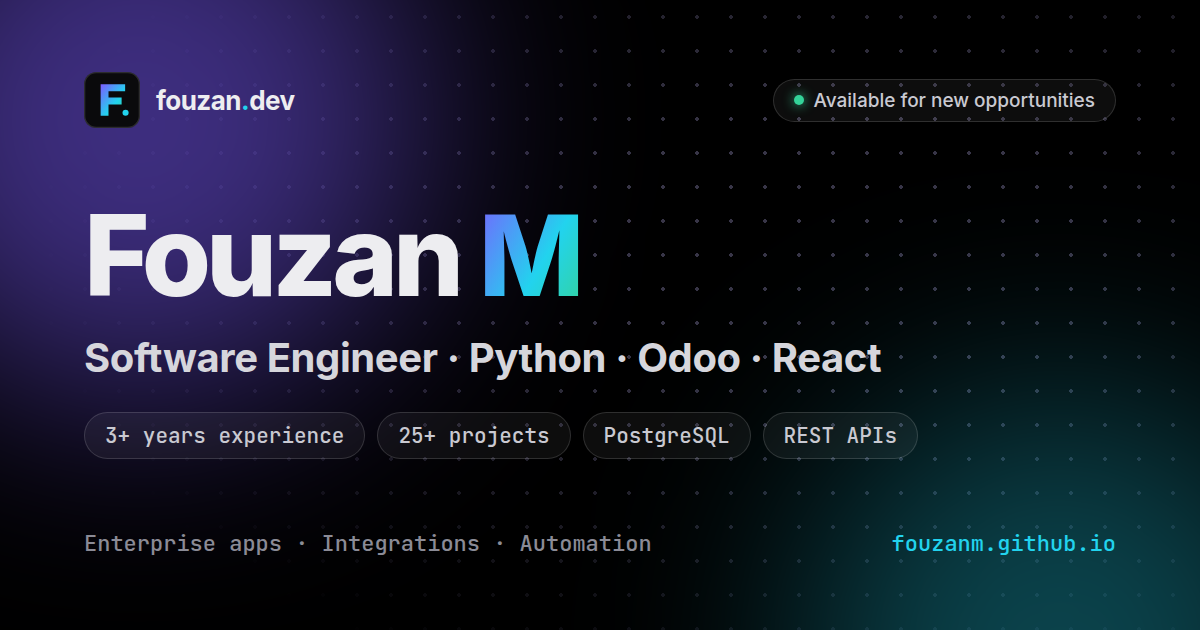
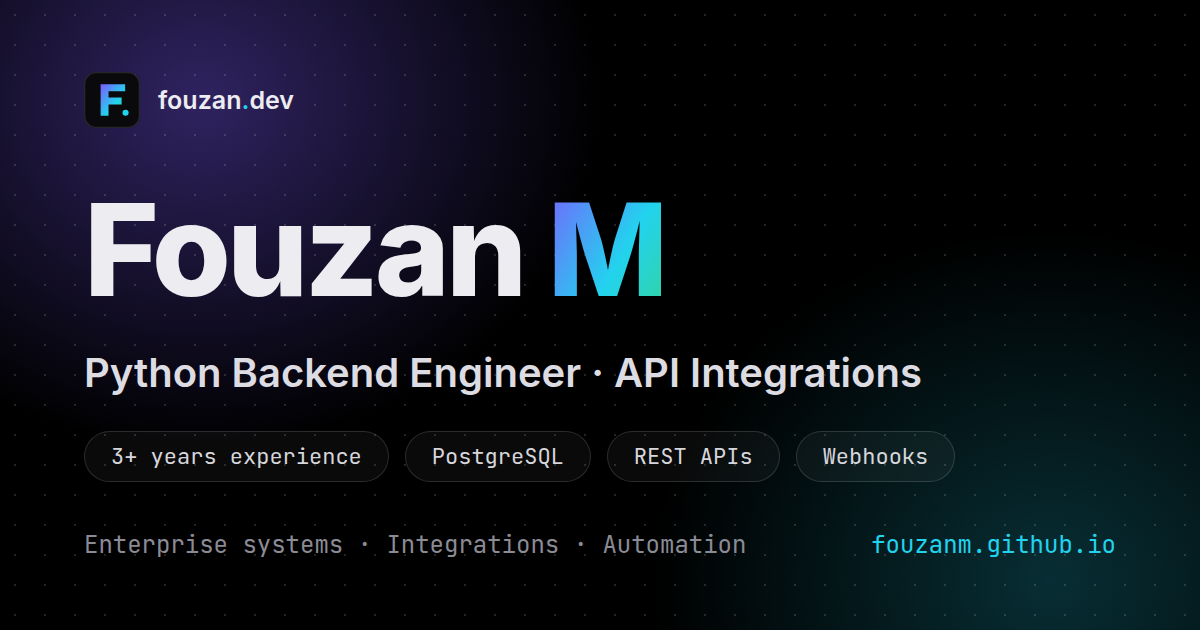
Update SEO: shorter title and description, new social preview image, sitemap date

diff --git a/index.html b/index.html
@@ -3,8 +3,8 @@
 <head>
 <meta charset="UTF-8" />
 <meta name="viewport" content="width=device-width, initial-scale=1" />
-<title>Fouzan M | Python Backend Engineer · API Integrations · Calicut, India</title>
-<meta name="description" content="Fouzan M is a Python backend engineer in Calicut, India. 3+ years building enterprise backends, REST API integrations (Xero, Paytrail, OpenAI) and React/OWL frontends, working directly with international clients." />
+<title>Fouzan M | Python Backend Engineer · API Integrations</title>
+<meta name="description" content="Python backend engineer with 3+ years building enterprise systems and REST API integrations for international clients. React, PostgreSQL, Docker." />
 <meta name="robots" content="index, follow, max-image-preview:large" />
 <meta name="author" content="Fouzan M" />
 <meta name="theme-color" content="#000000" />
@@ -22,7 +22,7 @@
 <meta property="og:title" content="Fouzan M - Python Backend Engineer · API Integrations" />
 <meta property="og:description" content="Python backend engineer with 3+ years building enterprise systems, REST API integrations and client-facing deliveries, from requirements to production." />
 <meta property="og:url" content="https://fouzanm.github.io/" />
-<meta property="og:image" content="https://fouzanm.github.io/og-image.png" />
+<meta property="og:image" content="https://fouzanm.github.io/og-image.png?v=2" />
 <meta property="og:image:type" content="image/png" />
 <meta property="og:image:width" content="1200" />
 <meta property="og:image:height" content="630" />
@@ -30,7 +30,7 @@
 <meta name="twitter:card" content="summary_large_image" />
 <meta name="twitter:title" content="Fouzan M - Python Backend Engineer · API Integrations" />
 <meta name="twitter:description" content="Python backend engineer with 3+ years building enterprise systems, REST API integrations and client-facing deliveries, from requirements to production." />
-<meta name="twitter:image" content="https://fouzanm.github.io/og-image.png" />
+<meta name="twitter:image" content="https://fouzanm.github.io/og-image.png?v=2" />
 <link rel="preconnect" href="https://fonts.googleapis.com" />
 <link rel="preconnect" href="https://fonts.gstatic.com" crossorigin />
 <link href="https://fonts.googleapis.com/css2?family=Inter:wght@300;400;500;600;700;800&family=JetBrains+Mono:wght@400;500&display=swap" rel="stylesheet" />
